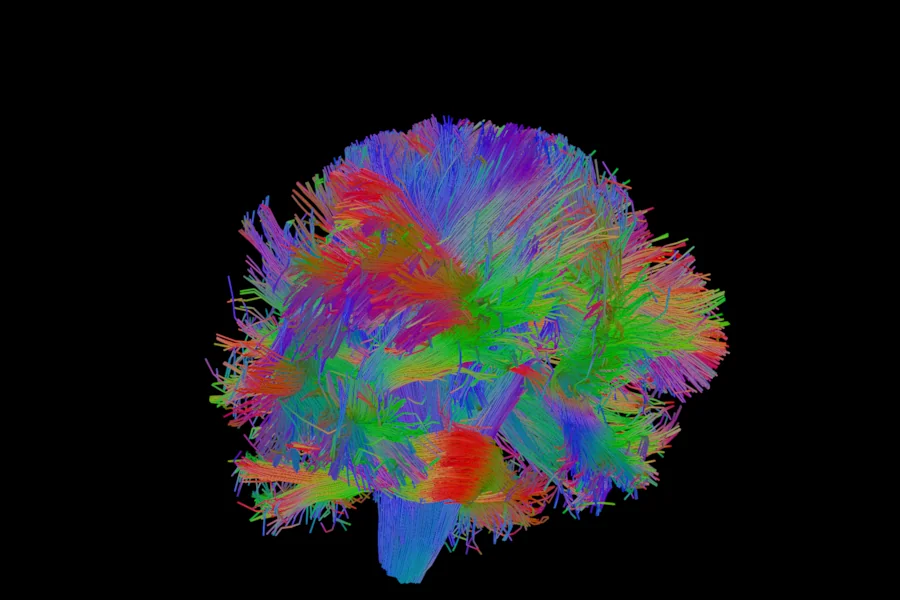
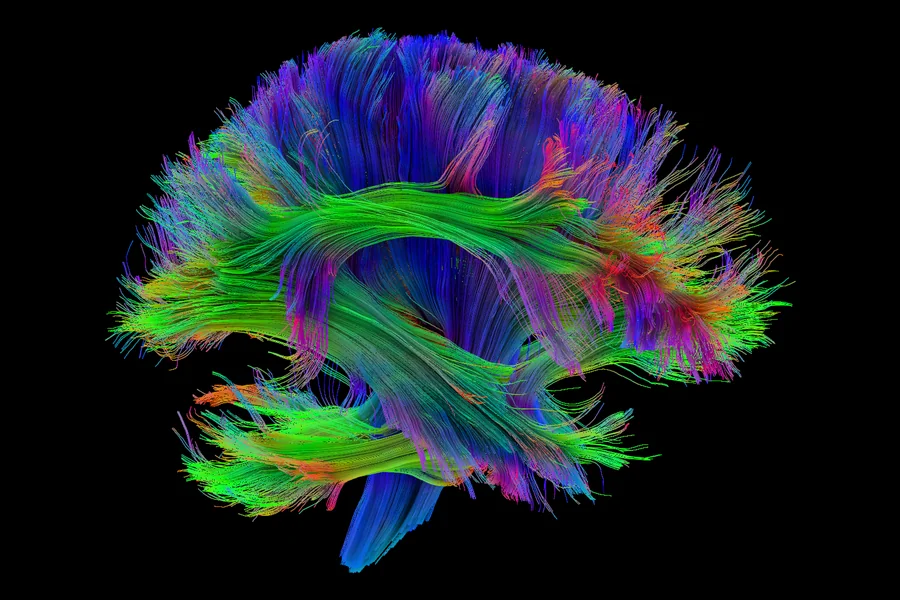
Draw the carousel's whole-brain tubes from the side
The first slide showed every streamline of 40 mm or more from the front,
with 20 points each: jagged tubes and a tangle of short fragments. The
example now draws the streamlines of 70 mm or more from the side, with
80 points, thinner tubes and ambient occlusion, at twice the resolution.
update_carousel.py crops that screenshot to the brain, which sits low in
the T1 image's field of view.

diff --git a/docs/update_carousel.py b/docs/update_carousel.py
@@ -21,6 +21,7 @@ import sys
 import tempfile
 from pathlib import Path
 
+import numpy as np
 from PIL import Image
 
 ROOT = Path(__file__).parent.parent
@@ -46,6 +47,11 @@ SLIDES = {
     "viewer_real_sagittal.png": "t1-fa.webp",
     "tracking_ismrm_slices.png": "slices-3d.webp",
 }
+# Screenshots drawn larger than a slide, with dark space around the brain: each is
+# cropped to the brain, with a margin, at the slide's shape, then scaled down to it.
+FRAMED = {"tracking_ismrm_tubes.png"}
+MARGIN = 0.05  # of the brain's width and height, on each side
+DARK = 12  # the brightest a pixel of the background may be, of 255
 SIMULATION_SLIDES = {
     "simulation_editor.png": "phantom-editor.webp",
     "simulation_breakdown.png": "signal-breakdown.webp",
@@ -74,13 +80,38 @@ def main() -> None:
             subprocess.run([sys.executable, str(script)], cwd=folder, check=True)
         for shot, slide in slides.items():
             with Image.open(Path(folder) / shot) as image:
-                if image.size != SIZE:
-                    sys.exit(f"{shot} is {image.size}, not {SIZE}")
-                image.convert("RGB").save(CAROUSEL / slide, quality=QUALITY, method=6)
+                rgb = image.convert("RGB")
+                if shot in FRAMED:
+                    rgb = frame(rgb)
+                if rgb.size != SIZE:
+                    sys.exit(f"{shot} is {rgb.size}, not {SIZE}")
+                rgb.save(CAROUSEL / slide, quality=QUALITY, method=6)
         for shot, name in SIMULATION_PAGE.items():
             # Lossless, so the text of the panels stays sharp.
             with Image.open(Path(folder) / shot) as image:
                 image.convert("RGB").save(PAGE_IMAGES / name, lossless=True, method=6)
+
+
+def frame(image: Image.Image) -> Image.Image:
+    """Crops a screenshot to what is drawn on its dark background, at a slide's size.
+
+    Args:
+        image: The screenshot, larger than a slide.
+
+    Returns:
+        The slide: the drawing with a margin, widened or heightened to the slide's
+        shape, scaled to its size.
+    """
+    rows, columns = np.nonzero(np.asarray(image).max(axis=2) > DARK)
+    left, right = columns.min(), columns.max()
+    top, bottom = rows.min(), rows.max()
+    width = (right - left) * (1 + 2 * MARGIN)
+    height = (bottom - top) * (1 + 2 * MARGIN)
+    aspect = SIZE[0] / SIZE[1]
+    width, height = max(width, height * aspect), max(height, width / aspect)
+    x, y = (left + right) / 2, (top + bottom) / 2
+    box = (x - width / 2, y - height / 2, x + width / 2, y + height / 2)
+    return image.crop(box).resize(SIZE, Image.Resampling.LANCZOS)
 
 
 if __name__ == "__main__":

diff --git a/examples/tractography/tracking_ismrm.py b/examples/tractography/tracking_ismrm.py
@@ -66,21 +66,29 @@ print(f"{run.num_streamlines} streamlines from {run.num_seeds} seeds")
 # Tubes in 3D
 # -----------
 # Streamlines are drawn as lit tubes, coloured by direction, here seen from the
-# front and a little from the side. The screenshots hide the text, so they show
-# only the data.
+# side. Only those of 70 mm or more are drawn, which leaves the long bundles, each
+# with 80 points to follow its curves; ambient occlusion darkens the tubes deep in
+# the bundles. The screenshots hide the text, so they show only the data.
 
 viewer = Viewer()
 t1 = viewer.load(files["t1"], Category.VOLUMES)
-tracts = viewer.add(run.tractogram, Category.TRACTOGRAMS, name="whole brain")
+whole = run.tractogram[select_length(run.tractogram, min_length=70.0)]
+tracts = viewer.add(whole, Category.TRACTOGRAMS, name="70 mm or more")
 viewer.set(t1.id, OptionName.SLICES_3D, False)
 viewer.set(t1.id, OptionName.OPACITY_3D, 0.0)
 viewer.set(tracts.id, OptionName.STYLE, TractStyle.TUBES)
-viewer.set(tracts.id, OptionName.SUBSET, 30.0)
-viewer.set_camera(ViewKind.THREE_D, CameraPreset.CORONAL)
-viewer.rotate_camera(30.0, 15.0)
+viewer.set(tracts.id, OptionName.SUBSET, 60.0)
+viewer.set(tracts.id, OptionName.POINTS, 80)
+viewer.set(tracts.id, OptionName.TUBE_RADIUS, 0.3)
+viewer.set(tracts.id, OptionName.AMBIENT_OCCLUSION, True)
+viewer.set_camera(ViewKind.THREE_D, CameraPreset.SAGITTAL)
 viewer.zoom(ViewKind.THREE_D, 1.4)
 viewer.screenshot(
-    ViewKind.THREE_D, "tracking_ismrm_tubes.png", size=(900, 600), overlay=False
+    ViewKind.THREE_D,
+    "tracking_ismrm_tubes.png",
+    size=(900, 600),
+    scale=2.0,
+    overlay=False,
 )
 
 # %%

diff --git a/docs/index.md b/docs/index.md
@@ -13,7 +13,7 @@ A Python library and viewer for simulating and processing diffusion MRI
 
 <!-- One slide per line: file in _static/carousel/ | alt text | caption. -->
 ```{carousel}
-tubes.webp | Whole-brain streamlines drawn as lit tubes in 3D, seen from the front, coloured by direction | Whole-brain tractography drawn as tubes, coloured by direction.
+tubes.webp | Long streamlines of the whole brain drawn as lit tubes in 3D, seen from the side, coloured by direction | Whole-brain tractography drawn as tubes, coloured by direction.
 simulated-fods.webp | FOD glyphs fitted on a simulated phantom of two bundles crossing at right angles: red lobes along the horizontal bundle, green along the vertical one, and both in the crossing | FODs fitted on a simulated crossing of two bundles.
 phantom-editor.webp | The guided phantom editor on its Tissue step: the five steps listed on the left with check marks, and the compartments of a white matter tissue on the right | The phantom editor, which guides a first simulation step by step.
 signal-breakdown.webp | The viewer with two simulated bundles crossing in the axial view and the Signal breakdown panel beside it: stacked bars of the signal of the crossing voxel with no decay, after the T1 and T2 decay and after the diffusion weighting | The signal of one simulated voxel, split into its factors.
